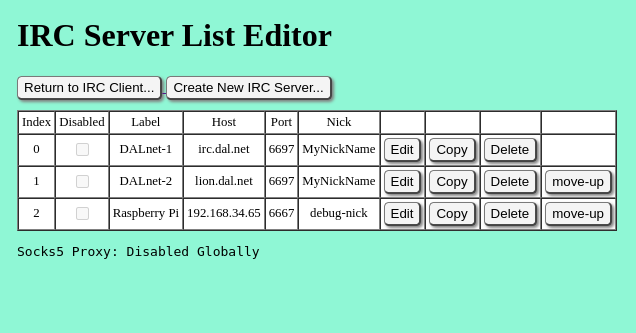
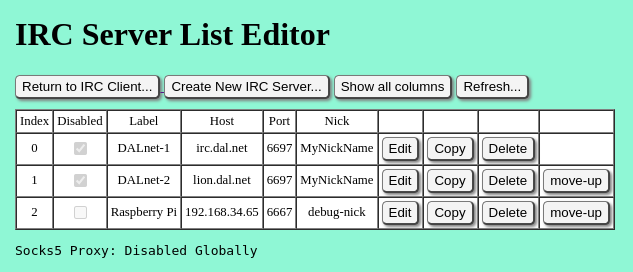
Update /docs

diff --git a/docs/server-config.html b/docs/server-config.html
@@ -73,9 +73,9 @@
         <p>
           The server list editor is external to the IRC web client web page. 
           The editor operates fully independent from chatting with the IRC client.
-          In order to use the web page editor remotely to modify the database, 
-          it is necessary to disconnect from the IRC network while making changes 
-          to the list of IRC server definitions.
+          The web page editor may be used to view IRC server definitions as read-only
+          while connected to the IRC network. However, it is necessary to disconnect 
+          from the IRC network while making changes.
         </p>
 
         <div class="home-detail">
@@ -89,9 +89,12 @@
               into the browser address bar. The editor and web client may be open concurrently, 
               but the client must be disconnected from the IRC network to edit the list.
             </p>
+            <p>
+              Both the IRC client and the server list may be open concurrently.
+            </p>
           </div>
           <div class="image-photo">
-            <img src=images/server-list-button.png width="512" height="313"alt="Server List Edit Button">
+            <img src=images/server-list-button.png width="525" height="313"alt="Server List Edit Button">
           </div>
         </div>
 
@@ -103,9 +106,16 @@
           The server definition at index number 0 is the default definition 
           that will be selected when the application is started.
           In the far right column, [move-up] buttons may be used to re-order the list.
-        </p><p>
+        </p>
+        <p>
           The [Return to IRC Client] button is a hyper-link back to the IRC client URL at /irc/webclient.html.
-        </p><p>
+        </p>
+        <p>
+          The [Show all columns] button will expand the table to that all IRC server properties are displayed 
+          with IRC server definitions in a single table.
+          Clicking the button a second time will collapse the table to it's original small size.
+        </p>
+        <p>
           The [Copy] button will duplicate the selected IRC server definition and add the 
           copy to the bottom of the list.
         </p><p>
@@ -115,7 +125,7 @@
           The [Create New IRC Server] button will open the same form populated with some default values.
         </p>
         <div>
-          <img src=images/server-list.png width="636" height="333"alt="Server Listing Table">
+          <img src=images/server-list.png width="633" height="272"alt="Server Listing Table">
         </div>
 
         <div class="install-section-title">Data Entry</div>
